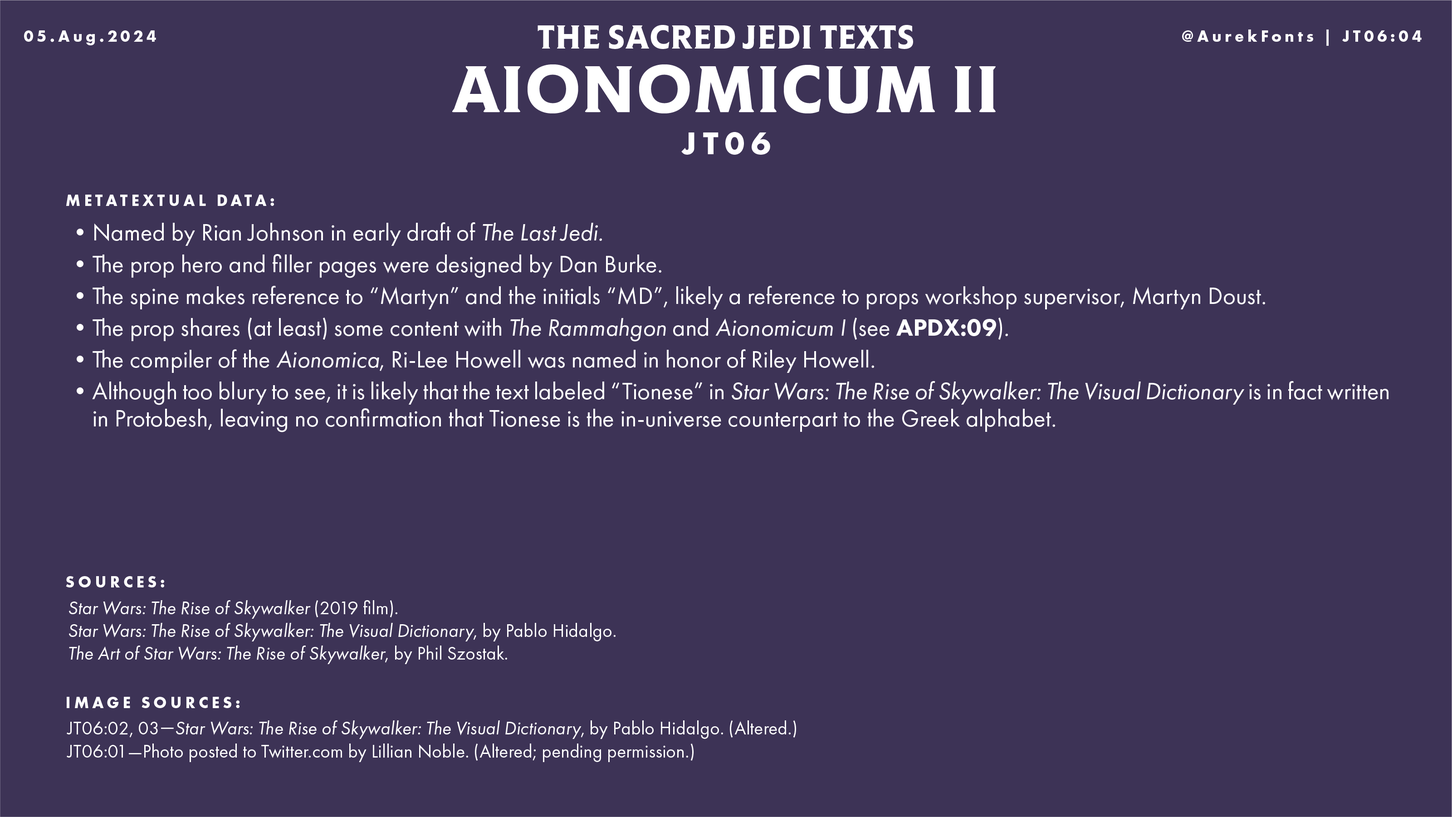
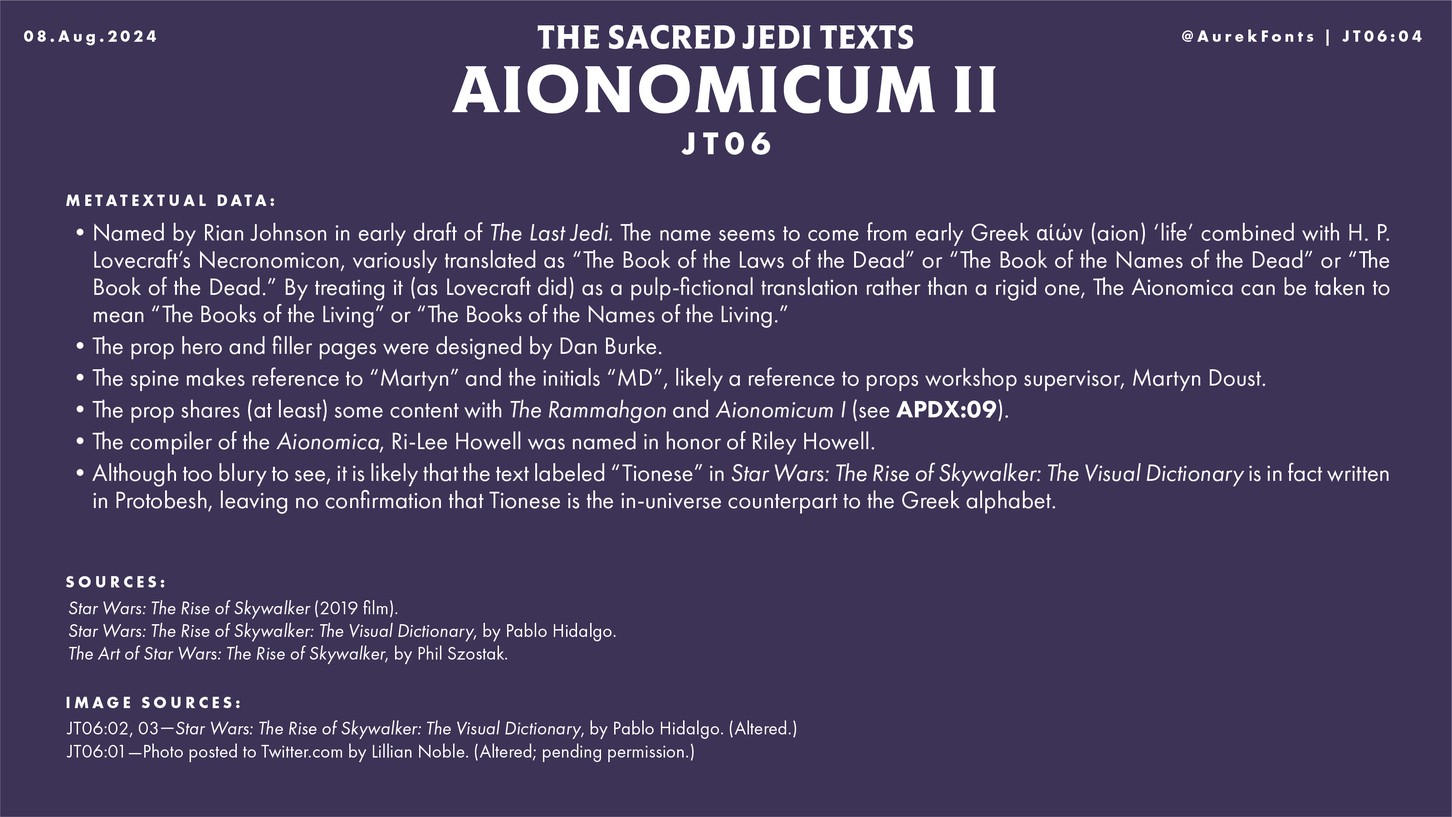
JT07 + updates

Changed region(s): [[0.0625, 0.2798, 0.9684, 0.6219], [0.9372, 0.3109, 0.9684, 0.342]]

diff --git a/guide-jeditexts.html b/guide-jeditexts.html
@@ -134,12 +134,12 @@
         <img
           id="JT01-02"
           src="./src/GuideToSacredJediTexts/JT01/JT01-02.png"
-          alt="The Sacred Jedi Texts. JT01: Aionomicum I, page 2. Known Contents: Tythonian wildlife: A description of “notable beasts” of Tython. Length, date, and author unknown. Lightsaber diagrams: Illustrated depictions of lightsaber construction. It is unclear whether these are hypothetical, experimental, or instructional in nature; by author or authors unknown. The Unsolved Theorem of Master Thorpe: A hyperspace plotting conundrum posed to Padawan learners; also a hand-drawn “Phases of Mortis” solution to the problem; whether the theorem or the solution are original or copies is unknown; date, author or authors unknown. (Notes added by later authors are present on the “Phases of Mortis” solution, attributed to Jedi Master Odan-Urr, before 3,996 BBY.) Visualization of the Chain Worlds Theorem: Also known as the World Between Worlds, or Vergence Scatter; date, author or authors unknown."
+          alt="The Sacred Jedi Texts. JT01: Aionomicum I, page 2. Known Contents: Tythonian wildlife: A description of 'notable beasts' of Tython. Length, date, and author unknown. Lightsaber diagrams: Illustrated depictions of lightsaber construction. It is unclear whether these are hypothetical, experimental, or instructional in nature; by author or authors unknown. The Unsolved Theorem of Master Thorpe: A hyperspace plotting conundrum posed to Padawan learners; also a hand-drawn 'Phases of Mortis' solution to the problem; whether the theorem or the solution are original or copies is unknown; date, author or authors unknown. (Notes added by later authors are present on the 'Phases of Mortis' solution, attributed to Jedi Master Odan-Urr, before 3,996 BBY.) Visualization of the Chain Worlds Theorem: Also known as the World Between Worlds, or Vergence Scatter; date, author or authors unknown."
           title="The Sacred Jedi Texts. JT01: Aionomicum I, page 2.
           Known Contents:
-          Tythonian wildlife: A description of “notable beasts” of Tython. Length, date, and author unknown.
+          Tythonian wildlife: A description of 'notable beasts' of Tython. Length, date, and author unknown.
           Lightsaber diagrams: Illustrated depictions of lightsaber construction. It is unclear whether these are hypothetical, experimental, or instructional in nature; by author or authors unknown.
-          The Unsolved Theorem of Master Thorpe: A hyperspace plotting conundrum posed to Padawan learners; also a hand-drawn “Phases of Mortis” solution to the problem; whether the theorem or the solution are original or copies is unknown; date, author or authors unknown. (Notes added by later authors are present on the “Phases of Mortis” solution, attributed to Jedi Master Odan-Urr, before 3,996 BBY.)
+          The Unsolved Theorem of Master Thorpe: A hyperspace plotting conundrum posed to Padawan learners; also a hand-drawn 'Phases of Mortis' solution to the problem; whether the theorem or the solution are original or copies is unknown; date, author or authors unknown. (Notes added by later authors are present on the 'Phases of Mortis' solution, attributed to Jedi Master Odan-Urr, before 3,996 BBY.)
           Visualization of the Chain Worlds Theorem: Also known as the World Between Worlds, or Vergence Scatter; date, author or authors unknown."
         >
       </a>
@@ -200,13 +200,13 @@
         <img
           id="JT01-06"
           src="./src/GuideToSacredJediTexts/JT01/JT01-06.png"
-          alt="The Sacred Jedi Texts. JT01: Aionomicum I, page 6. Metatextual Data: Named by Rian Johnson in early draft of The Last Jedi. The prop hero and filler pages were designed by Dan Burke. The prop shares (at least) some content with The Rammahgon and Aionomicum II (see Appendices, page 9). The prop refers to “Dan” and “Spacebu;” both are likely references to the artist who designed its contents, Dan Burke. The Unsolved Thorpe Theorem is a reference to an early treatment of Star Wars, by George Lucas, which features a character named Chuiee Two Thorpe of Kissel, a Padawan of Mace Windy. The compiler of the Aionomica, Ri-Lee Howell was named in honor of Riley Howell. Sources: Star Wars: The Rise of Skywalker (2019 film). Star Wars: The Rise of Skywalker: The Visual Dictionary, by Pablo Hidalgo. The Art of Star Wars: The Rise of Skywalker, by Phil Szostak. Image Sources: Pages 1, 3, 4, and 5: Star Wars: The Rise of Skywalker: The Visual Dictionary, by Pablo Hidalgo. (Altered.) Page 4: Kitab al-Tafhim by Al-Biruni (973-1048)."
+          alt="The Sacred Jedi Texts. JT01: Aionomicum I, page 6. Metatextual Data: Named by Rian Johnson in early draft of The Last Jedi. The name seems to come from early Greek αἰών (aion) 'life' combined with H. P. Lovecraft's Necronomicon, variously translated as 'The Book of the Laws of the Dead' or 'The Book of the Names of the Dead' or 'The Book of the Dead.' By treating it (as Lovecraft did) as a pulp-fictional translation rather than a rigid one, The Aionomica can be taken to mean 'The Books of the Living' or 'The Books of the Names of the Living.' The prop hero and filler pages were designed by Dan Burke. The prop shares (at least) some content with The Rammahgon and Aionomicum II (see Appendices, page 9). The prop refers to 'Dan' and 'Spacebu;' both are likely references to the artist who designed its contents, Dan Burke. The Unsolved Thorpe Theorem is a reference to an early treatment of Star Wars, by George Lucas, which features a character named Chuiee Two Thorpe of Kissel, a Padawan of Mace Windy. The compiler of the Aionomica, Ri-Lee Howell was named in honor of Riley Howell. Sources: Star Wars: The Rise of Skywalker (2019 film). Star Wars: The Rise of Skywalker: The Visual Dictionary, by Pablo Hidalgo. The Art of Star Wars: The Rise of Skywalker, by Phil Szostak. Image Sources: Pages 1, 3, 4, and 5: Star Wars: The Rise of Skywalker: The Visual Dictionary, by Pablo Hidalgo. (Altered.) Page 4: Kitab al-Tafhim by Al-Biruni (973-1048)."
           title="The Sacred Jedi Texts. JT01: Aionomicum I, page 6.
           Metatextual Data:
-          Named by Rian Johnson in early draft of The Last Jedi.
+          Named by Rian Johnson in early draft of The Last Jedi. The name seems to come from early Greek αἰών (aion) 'life' combined with H. P. Lovecraft's Necronomicon, variously translated as 'The Book of the Laws of the Dead' or 'The Book of the Names of the Dead' or 'The Book of the Dead.' By treating it (as Lovecraft did) as a pulp-fictional translation rather than a rigid one, The Aionomica can be taken to mean 'The Books of the Living' or 'The Books of the Names of the Living.'
           The prop hero and filler pages were designed by Dan Burke.
           The prop shares (at least) some content with The Rammahgon and Aionomicum II (see Appendices, page 9).
-          The prop refers to “Dan” and “Spacebu;” both are likely references to the artist who designed its contents, Dan Burke.
+          The prop refers to 'Dan' and 'Spacebu;' both are likely references to the artist who designed its contents, Dan Burke.
           The Unsolved Thorpe Theorem is a reference to an early treatment of Star Wars, by George Lucas, which features a character named Chuiee Two Thorpe of Kissel, a Padawan of Mace Windy.
           The compiler of the Aionomica, Ri-Lee Howell was named in honor of Riley Howell.
           Sources:
@@ -241,10 +241,10 @@
         <img
           id="JT02-02"
           src="./src/GuideToSacredJediTexts/JT02/JT02-02.png"
-          alt="The Sacred Jedi Texts. JT02: [Organic Spine], page 2. Metatextual Data: Judging by the spine, the cover may be based on concept art by James Carson, which features Aurebesh on the cover, transliterated as “Zeoht”. (An acompanying image of the concept art in question, which similarly features a cover apparently grown from organic plant matter, emblazoned with a Rebel Starbird insignia and Aurebesh lettering.) Sources: Star Wars: The Last Jedi (2017 film). The Art of Star Wars: The Rise of Skywalker, by Phil Szostak. Image Sources: Page 1: Star Wars: The Last Jedi (2017 film). Page 2: The Art of Star Wars: The Rise of Skywalker, by Phil Szostak."
+          alt="The Sacred Jedi Texts. JT02: [Organic Spine], page 2. Metatextual Data: Judging by the spine, the cover may be based on concept art by James Carson, which features Aurebesh on the cover, transliterated as 'Zeoht'. (An acompanying image of the concept art in question, which similarly features a cover apparently grown from organic plant matter, emblazoned with a Rebel Starbird insignia and Aurebesh lettering.) Sources: Star Wars: The Last Jedi (2017 film). The Art of Star Wars: The Rise of Skywalker, by Phil Szostak. Image Sources: Page 1: Star Wars: The Last Jedi (2017 film). Page 2: The Art of Star Wars: The Rise of Skywalker, by Phil Szostak."
           title="The Sacred Jedi Texts. JT02: [Organic Spine], page 2.
           Metatextual Data:
-          Judging by the spine, the cover may be based on concept art by James Carson, which features Aurebesh on the cover, transliterated as “Zeoht”.
+          Judging by the spine, the cover may be based on concept art by James Carson, which features Aurebesh on the cover, transliterated as 'Zeoht'.
           (An acompanying image of the concept art in question, which similarly features a cover apparently grown from organic plant matter, emblazoned with a Rebel Starbird insignia and Aurebesh lettering.)
           Sources:
           Star Wars: The Last Jedi (2017 film).
@@ -274,12 +274,12 @@
         <img
           id="JT03-02"
           src="./src/GuideToSacredJediTexts/JT03/JT03-02.png"
-          alt="The Sacred Jedi Texts. JT03: [Organic Spine], page 2. Known Contents: The Jedi and the Force: C-3PO is known to have translated at least one brief passage of the book for Rey, as she began her study of the texts: ”The Force is the light, the Force is the dark. The Jedi choose the light, for all it reveals.” Possible Identification: It is possible that JT03 is either The Chronicles of Brus-bu (JTX1) or Poetics of a Jedi (JTX2). Judging by the opening poetical refrain read by C-3PO, and the description of Poetics as being “a thin folio” that feels like a slightly more probable identification. Sources: Star Wars: The Last Jedi (2017 film). Star Wars: The Rise of Skywalker (2019 film). Star Wars: Poe Dameron, #28 (comic). Star Wars: The Rise of Skywalker: A Junior Novel, by Michael Kogge. Image Sources: Page 1: Star Wars: The Rise of Skywalker: The Visual Dictionary, by Pablo Hidalgo. (Composite.) Page 1: Star Wars: The Last Jedi (2017 film). (Composite.) Page 2: Star Wars: Poe Dameron, #28 (comic)."
+          alt="The Sacred Jedi Texts. JT03: [Organic Spine], page 2. Known Contents: The Jedi and the Force: C-3PO is known to have translated at least one brief passage of the book for Rey, as she began her study of the texts: 'The Force is the light, the Force is the dark. The Jedi choose the light, for all it reveals.' Possible Identification: It is possible that JT03 is either The Chronicles of Brus-bu (JTX1) or Poetics of a Jedi (JTX2). Judging by the opening poetical refrain read by C-3PO, and the description of Poetics as being 'a thin folio' that feels like a slightly more probable identification. Sources: Star Wars: The Last Jedi (2017 film). Star Wars: The Rise of Skywalker (2019 film). Star Wars: Poe Dameron, #28 (comic). Star Wars: The Rise of Skywalker: A Junior Novel, by Michael Kogge. Image Sources: Page 1: Star Wars: The Rise of Skywalker: The Visual Dictionary, by Pablo Hidalgo. (Composite.) Page 1: Star Wars: The Last Jedi (2017 film). (Composite.) Page 2: Star Wars: Poe Dameron, #28 (comic)."
           title="The Sacred Jedi Texts. JT03: [Organic Spine], page 2.
           Known Contents:
-          The Jedi and the Force: C-3PO is known to have translated at least one brief passage of the book for Rey, as she began her study of the texts: ”The Force is the light, the Force is the dark. The Jedi choose the light, for all it reveals.”
+          The Jedi and the Force: C-3PO is known to have translated at least one brief passage of the book for Rey, as she began her study of the texts: 'The Force is the light, the Force is the dark. The Jedi choose the light, for all it reveals.'
           Possible Identification:
-          It is possible that JT03 is either The Chronicles of Brus-bu (JTX1) or Poetics of a Jedi (JTX2). Judging by the opening poetical refrain read by C-3PO, and the description of Poetics as being “a thin folio” that feels like a slightly more probable identification.
+          It is possible that JT03 is either The Chronicles of Brus-bu (JTX1) or Poetics of a Jedi (JTX2). Judging by the opening poetical refrain read by C-3PO, and the description of Poetics as being 'a thin folio' that feels like a slightly more probable identification.
           (Detail of a comic book panel from Star Wars: Poe Dameron, #28 of C-3PO reading from JT03.)
           Sources:
           Star Wars: The Last Jedi (2017 film).
@@ -320,12 +320,12 @@
         <img
           id="JT05-01"
           src="./src/GuideToSacredJediTexts/JT05/JT05-01.png"
-          alt="The Sacred Jedi Texts. JT05: [TLJ Hero], page 1. (A photograph of JT05: A codex with a reddish-brown cover with thick, raised markings. The front cover is made of three hinged panels connected together with cord. The cover is attached to the spine in a similar manner. The book is angled as if set on a table.) Known and Extrapolated History: Little is known about the history of JT05 before Luke Skywalker discovered it in the arms of a skeleton within the Living Sea of Gazian in 3 or 4 ABY. The front cover is made up of three hinged vertical panels. The first panel (counting from the spine) is decorated with the word “JEDI,” written in the relatively modern Aurebesh; the second is decorated with a geometric pattern that does not appear to be linguistic in nature; the third panel contains several symbols of unknown origin or meaning, which we will call Serianan Runes (unofficial name). The pages within are written in an ancient calligraphic script (see JT05: [TLJ Hero], page 3) and feature extensive gold illumination, both in text and in decoration. Most of the pages show signs of extensive damage. Neither Aurebesh nor the unknown symbols on the cover match the language the book itself is written in, suggesting that this is not the original cover."
+          alt="The Sacred Jedi Texts. JT05: [TLJ Hero], page 1. (A photograph of JT05: A codex with a reddish-brown cover with thick, raised markings. The front cover is made of three hinged panels connected together with cord. The cover is attached to the spine in a similar manner. The book is angled as if set on a table.) Known and Extrapolated History: Little is known about the history of JT05 before Luke Skywalker discovered it in the arms of a skeleton within the Living Sea of Gazian in 3 or 4 ABY. The front cover is made up of three hinged vertical panels. The first panel (counting from the spine) is decorated with the word 'JEDI,' written in the relatively modern Aurebesh; the second is decorated with a geometric pattern that does not appear to be linguistic in nature; the third panel contains several symbols of unknown origin or meaning, which we will call Serianan Runes (unofficial name). The pages within are written in an ancient calligraphic script (see JT05: [TLJ Hero], page 3) and feature extensive gold illumination, both in text and in decoration. Most of the pages show signs of extensive damage. Neither Aurebesh nor the unknown symbols on the cover match the language the book itself is written in, suggesting that this is not the original cover."
           title="The Sacred Jedi Texts. JT05: [TLJ Hero], page 1.
           (A photograph of JT05: A codex with a reddish-brown cover with thick, raised markings. The front cover is made of three hinged panels connected together with cord. The cover is attached to the spine in a similar manner. The book is angled as if set on a table.)
           Known and Extrapolated History:
           Little is known about the history of JT05 before Luke Skywalker discovered it in the arms of a skeleton within the Living Sea of Gazian in 3 or 4 ABY.
-          The front cover is made up of three hinged vertical panels. The first panel (counting from the spine) is decorated with the word “JEDI,” written in the relatively modern Aurebesh; the second is decorated with a geometric pattern that does not appear to be linguistic in nature; the third panel contains several symbols of unknown origin or meaning, which we will call Serianan Runes (unofficial name).
+          The front cover is made up of three hinged vertical panels. The first panel (counting from the spine) is decorated with the word 'JEDI,' written in the relatively modern Aurebesh; the second is decorated with a geometric pattern that does not appear to be linguistic in nature; the third panel contains several symbols of unknown origin or meaning, which we will call Serianan Runes (unofficial name).
           The pages within are written in an ancient calligraphic script (see JT05: [TLJ Hero], page 3) and feature extensive gold illumination, both in text and in decoration. Most of the pages show signs of extensive damage.
           Neither Aurebesh nor the unknown symbols on the cover match the language the book itself is written in, suggesting that this is not the original cover."
         >
@@ -335,10 +335,10 @@
         <img
           id="JT05-02"
           src="./src/GuideToSacredJediTexts/JT05/JT05-02.png"
-          alt="The Sacred Jedi Texts. JT05: [TLJ Hero], page 2. Known Contents: The Crest of the Jedi Order: The first page of JT05 features what is perhaps the earliest extant depiction of “the winged blade of light” or “the living sunrise” ideogram that would later become the official Crest of the Jedi Order. (An acompanying photograph of JT05 open to its first page: In the center of the page is the Crest of the Jedi Order, in blue and gold illumination; it is surrounded by writing in an alien language; the page has significant losses, with the upper left and lower right corners missing completely, and much of the inks worn off besides; the pages are blackened from the edges running inward, and appear brittle.) The use of such a potent religious symbol on its opening page, along with the presentation of the contents in such a uniformly illuminated style and its lack of marginal annotations, suggests that this volume (in contrast to composite works such as the Aionomica, which were deemed sacred only after their writing) was from its very conception intended to be a sacred work. Planetary phase diagrams: The most prominent images associated with JT05 are its diagrams of planetary phases. It is unclear however what planets they refer to, if they are meant to be taken literally at all. Philosophy on, and color illustrations of, Kyber crystals: Tells how young Jedi would go to Ilum to find their own Kyber crystals. Choosing a crystal and building a lightsaber was a rite of passage."
+          alt="The Sacred Jedi Texts. JT05: [TLJ Hero], page 2. Known Contents: The Crest of the Jedi Order: The first page of JT05 features what is perhaps the earliest extant depiction of 'the winged blade of light' or 'the living sunrise' ideogram that would later become the official Crest of the Jedi Order. (An acompanying photograph of JT05 open to its first page: In the center of the page is the Crest of the Jedi Order, in blue and gold illumination; it is surrounded by writing in an alien language; the page has significant losses, with the upper left and lower right corners missing completely, and much of the inks worn off besides; the pages are blackened from the edges running inward, and appear brittle.) The use of such a potent religious symbol on its opening page, along with the presentation of the contents in such a uniformly illuminated style and its lack of marginal annotations, suggests that this volume (in contrast to composite works such as the Aionomica, which were deemed sacred only after their writing) was from its very conception intended to be a sacred work. Planetary phase diagrams: The most prominent images associated with JT05 are its diagrams of planetary phases. It is unclear however what planets they refer to, if they are meant to be taken literally at all. Philosophy on, and color illustrations of, Kyber crystals: Tells how young Jedi would go to Ilum to find their own Kyber crystals. Choosing a crystal and building a lightsaber was a rite of passage."
           title="The Sacred Jedi Texts. JT05: [TLJ Hero], page 2.
           Known Contents:
-          The Crest of the Jedi Order: The first page of JT05 features what is perhaps the earliest extant depiction of “the winged blade of light” or “the living sunrise” ideogram that would later become the official Crest of the Jedi Order.
+          The Crest of the Jedi Order: The first page of JT05 features what is perhaps the earliest extant depiction of 'the winged blade of light' or 'the living sunrise' ideogram that would later become the official Crest of the Jedi Order.
           (An acompanying photograph of JT05 open to its first page: In the center of the page is the Crest of the Jedi Order, in blue and gold illumination; it is surrounded by writing in an alien language; the page has significant losses, with the upper left and lower right corners missing completely, and much of the inks worn off besides; the pages are blackened from the edges running inward, and appear brittle.)
           The use of such a potent religious symbol on its opening page, along with the presentation of the contents in such a uniformly illuminated style and its lack of marginal annotations, suggests that this volume (in contrast to composite works such as the Aionomica, which were deemed sacred only after their writing) was from its very conception intended to be a sacred work.
           Planetary phase diagrams: The most prominent images associated with JT05 are its diagrams of planetary phases. It is unclear however what planets they refer to, if they are meant to be taken literally at all.
@@ -428,14 +428,14 @@
         <img
           id="JT05-09"
           src="./src/GuideToSacredJediTexts/JT05/JT05-09.png"
-          alt="The Sacred Jedi Texts. JT05: [TLJ Hero], page 9. A Final Mystery (Known and Extrapolated History, continued from JT05, page 1): By 35 ABY, some pages (including Page 4) of JT05 appear to have been removed from their binding and relocated to another volume of Luke's library, in a loose-leaf fashion. It is uncertain when this happened, or to which volume they were relocated. Based on the visual reference available to us, it is most likely JT02, (although it could aslo be JT07). Did Luke or Rey undo the binding on JT05? and why were these pages removed? Possible Identification: JT05 could be either of the named-but-unidentified Jedi Texts. Both JT05 and The Chronicles of Brus-bu (JTX1) are known to have sections about lightsaber construction, though JT05 is notable for being more philosophical than practical on the matter. It is possible that this is Poetics of a Jedi (JTX2). However, Poetics is described as a “thin folio,” for which there are better candidates among the library."
+          alt="The Sacred Jedi Texts. JT05: [TLJ Hero], page 9. A Final Mystery (Known and Extrapolated History, continued from JT05, page 1): By 35 ABY, some pages (including Page 4) of JT05 appear to have been removed from their binding and relocated to another volume of Luke's library, in a loose-leaf fashion. It is uncertain when this happened, or to which volume they were relocated. Based on the visual reference available to us, it is most likely JT02, (although it could aslo be JT07). Did Luke or Rey undo the binding on JT05? and why were these pages removed? Possible Identification: JT05 could be either of the named-but-unidentified Jedi Texts. Both JT05 and The Chronicles of Brus-bu (JTX1) are known to have sections about lightsaber construction, though JT05 is notable for being more philosophical than practical on the matter. It is possible that this is Poetics of a Jedi (JTX2). However, Poetics is described as a 'thin folio,' for which there are better candidates among the library."
           title="The Sacred Jedi Texts. JT05: [TLJ Hero], page 9.
           A Final Mystery (Known and Extrapolated History, continued from JT05, page 1):
           By 35 ABY, some pages (including Page 4) of JT05 appear to have been removed from their binding and relocated to another volume of Luke's library, in a loose-leaf fashion. It is uncertain when this happened, or to which volume they were relocated. Based on the visual reference available to us, it is most likely JT02, (although it could aslo be JT07). Did Luke or Rey undo the binding on JT05? and why were these pages removed?
           Possible Identification:
           JT05 could be either of the named-but-unidentified Jedi Texts.
           Both JT05 and The Chronicles of Brus-bu (JTX1) are known to have sections about lightsaber construction, though JT05 is notable for being more philosophical than practical on the matter.
-          It is possible that this is Poetics of a Jedi (JTX2). However, Poetics is described as a “thin folio,” for which there are better candidates among the library."
+          It is possible that this is Poetics of a Jedi (JTX2). However, Poetics is described as a 'thin folio,' for which there are better candidates among the library."
         >
       </a>
       <br>
@@ -485,10 +485,10 @@
         <img
           id="JT06-02"
           src="./src/GuideToSacredJediTexts/JT06/JT06-02.png"
-          alt="The Sacred Jedi Texts. JT06: Aionomicum II, page 2. Known Contents: 'What is, is without': Writings by Jedi Master Mott Corbet expounding upon his dictum “what is, is without;” written vertically in Tionese. A note containing Protobesh: Inserted into Master Corbet's writing is a small square piece of paper containing 'PF Two' in Protobesh."
+          alt="The Sacred Jedi Texts. JT06: Aionomicum II, page 2. Known Contents: 'What is, is without': Writings by Jedi Master Mott Corbet expounding upon his dictum 'what is, is without;' written vertically in Tionese. A note containing Protobesh: Inserted into Master Corbet's writing is a small square piece of paper containing 'PF Two' in Protobesh."
           title="The Sacred Jedi Texts. JT06: Aionomicum II, page 2.
           Known Contents:
-          'What is, is without': Writings by Jedi Master Mott Corbet expounding upon his dictum “what is, is without;” written vertically in Tionese.
+          'What is, is without': Writings by Jedi Master Mott Corbet expounding upon his dictum 'what is, is without;' written vertically in Tionese.
           A note containing Protobesh: Inserted into Master Corbet's writing is a small square piece of paper containing 'PF Two' in Protobesh.
           (An acompanying photograph of the interior pages of Aionomica II: Its pages are warn and the ink is faded, too distant to read clearly; there are insterted pieces of paper; most of the book is obscured by the silhouette of another book.)"
         >
@@ -514,15 +514,15 @@
         <img
           id="JT06-04"
           src="./src/GuideToSacredJediTexts/JT06/JT06-04.png"
-          alt="The Sacred Jedi Texts. JT06: Aionomicum II, page 4. Metatextual Data: Named by Rian Johnson in early draft of The Last Jedi. The prop hero and filler pages were designed by Dan Burke. The spine makes reference to “Martyn” and the initials “MD”, likely a reference to props workshop supervisor, Martyn Doust. The prop shares (at least) some content with The Rammahgon and Aionomicum I (see APDX:09). The compiler of the Aionomica, Ri-Lee Howell was named in honor of Riley Howell. Although too blury to see, it is likely that the text labeled “Tionese” in Star Wars: The Rise of Skywalker: The Visual Dictionary is in fact written in Protobesh, leaving no confirmation that Tionese is the in-universe counterpart to the Greek alphabet. Sources: Star Wars: The Rise of Skywalker (2019 film). Star Wars: The Rise of Skywalker: The Visual Dictionary, by Pablo Hidalgo. The Art of Star Wars: The Rise of Skywalker, by Phil Szostak. Image Sources: Pages 2 and 3: Star Wars: The Rise of Skywalker: The Visual Dictionary, by Pablo Hidalgo. (Altered.) Page 1: Photo posted to Twitter.com by Lillian Noble. (Altered; pending permission.)"
+          alt="The Sacred Jedi Texts. JT06: Aionomicum II, page 4. Metatextual Data: Named by Rian Johnson in early draft of The Last Jedi. The name seems to come from early Greek αἰών (aion) 'life' combined with H. P. Lovecraft's Necronomicon, variously translated as 'The Book of the Laws of the Dead' or 'The Book of the Names of the Dead' or 'The Book of the Dead.' By treating it (as Lovecraft did) as a pulp-fictional translation rather than a rigid one, The Aionomica can be taken to mean 'The Books of the Living' or 'The Books of the Names of the Living.' The prop hero and filler pages were designed by Dan Burke. The spine makes reference to 'Martyn' and the initials 'MD', likely a reference to props workshop supervisor, Martyn Doust. The prop shares (at least) some content with The Rammahgon and Aionomicum I (see APDX:09). The compiler of the Aionomica, Ri-Lee Howell was named in honor of Riley Howell. Although too blury to see, it is likely that the text labeled 'Tionese' in Star Wars: The Rise of Skywalker: The Visual Dictionary is in fact written in Protobesh, leaving no confirmation that Tionese is the in-universe counterpart to the Greek alphabet. Sources: Star Wars: The Rise of Skywalker (2019 film). Star Wars: The Rise of Skywalker: The Visual Dictionary, by Pablo Hidalgo. The Art of Star Wars: The Rise of Skywalker, by Phil Szostak. Image Sources: Pages 2 and 3: Star Wars: The Rise of Skywalker: The Visual Dictionary, by Pablo Hidalgo. (Altered.) Page 1: Photo posted to Twitter.com by Lillian Noble. (Altered; pending permission.)"
           title="The Sacred Jedi Texts. JT06: Aionomicum II, page 4.
           Metatextual Data:
-          Named by Rian Johnson in early draft of The Last Jedi.
+          Named by Rian Johnson in early draft of The Last Jedi. The name seems to come from early Greek αἰών (aion) 'life' combined with H. P. Lovecraft's Necronomicon, variously translated as 'The Book of the Laws of the Dead' or 'The Book of the Names of the Dead' or 'The Book of the Dead.' By treating it (as Lovecraft did) as a pulp-fictional translation rather than a rigid one, The Aionomica can be taken to mean 'The Books of the Living' or 'The Books of the Names of the Living.'
           The prop hero and filler pages were designed by Dan Burke.
-          The spine makes reference to “Martyn” and the initials “MD”, likely a reference to props workshop supervisor, Martyn Doust.
+          The spine makes reference to 'Martyn' and the initials 'MD', likely a reference to props workshop supervisor, Martyn Doust.
           The prop shares (at least) some content with The Rammahgon and Aionomicum I (see APDX:09).
           The compiler of the Aionomica, Ri-Lee Howell was named in honor of Riley Howell.
-          Although too blury to see, it is likely that the text labeled “Tionese” in Star Wars: The Rise of Skywalker: The Visual Dictionary is in fact written in Protobesh, leaving no confirmation that Tionese is the in-universe counterpart to the Greek alphabet.
+          Although too blury to see, it is likely that the text labeled 'Tionese' in Star Wars: The Rise of Skywalker: The Visual Dictionary is in fact written in Protobesh, leaving no confirmation that Tionese is the in-universe counterpart to the Greek alphabet.
           Sources:
           Star Wars: The Rise of Skywalker (2019 film).
           Star Wars: The Rise of Skywalker: The Visual Dictionary, by Pablo Hidalgo.
@@ -530,6 +530,30 @@
           Image Sources:
           Pages 2 and 3: Star Wars: The Rise of Skywalker: The Visual Dictionary, by Pablo Hidalgo. (Altered.)
           Page 1: Photo posted to Twitter.com by Lillian Noble. (Altered; pending permission.)"
+        >
+      </a>
+      <br>
+      <h2 id="JT07">JT07</h2>
+      <a href="./src/GuideToSacredJediTexts/JT07/JT07-01.png">
+        <img
+          id="JT07-01"
+          src="./src/GuideToSacredJediTexts/JT07/JT07-01.png"
+          alt="The Sacred Jedi Texts. JT07: [Raised Star Map Cover], page 1. (Composite reconstruction of JT07: Its front cover has lines and dots raised well off the surface, as if molded in clay; the raised marks resemble a star map; the edges of the cover are irregular; the spine is relatively uneventful by comparison, with slight insets and slightly obscure markings.) Known History: This text came into Jedi Master Luke Skywalker's possession sometime before 28 ABY and was later passed on to Jedi Rey's possession. Its front and back covers appear to depict a raised star map, which is different on each face. The spine has some markings, but whether they are decorative or textual is not clear. Known Contents: None. Possible Identification: JT02 could be either The Chronicles of Brus-bu (JTX1) or Poetics of a Jedi (JTX2), but only because neither can be definitively ruled out. Sources: Star Wars: The Last Jedi (2017 film). Star Wars: The Rise of Skywalker (2019 film). Image Sources: Page 1: Star Wars: The Rise of Skywalker (2019 film). (Composite.) Page 1: Star Wars: The Last Jedi (2017 film). (Composite.)"
+          title="The Sacred Jedi Texts. JT07: [Raised Star Map Cover], page 1.
+          (Composite reconstruction of JT07: Its front cover has lines and dots raised well off the surface, as if molded in clay; the raised marks resemble a star map; the edges of the cover are irregular; the spine is relatively uneventful by comparison, with slight insets and slightly obscure markings.)
+          Known History:
+          This text came into Jedi Master Luke Skywalker's possession sometime before 28 ABY and was later passed on to Jedi Rey's possession.
+          Its front and back covers appear to depict a raised star map, which is different on each face. The spine has some markings, but whether they are decorative or textual is not clear.
+          Known Contents:
+          None.
+          Possible Identification:
+          JT02 could be either The Chronicles of Brus-bu (JTX1) or Poetics of a Jedi (JTX2), but only because neither can be definitively ruled out.
+          Sources:
+          Star Wars: The Last Jedi (2017 film).
+          Star Wars: The Rise of Skywalker (2019 film).
+          Image Sources:
+          Page 1: Star Wars: The Rise of Skywalker (2019 film). (Composite.)
+          Page 1: Star Wars: The Last Jedi (2017 film). (Composite.)"
         >
       </a>
       <br>
